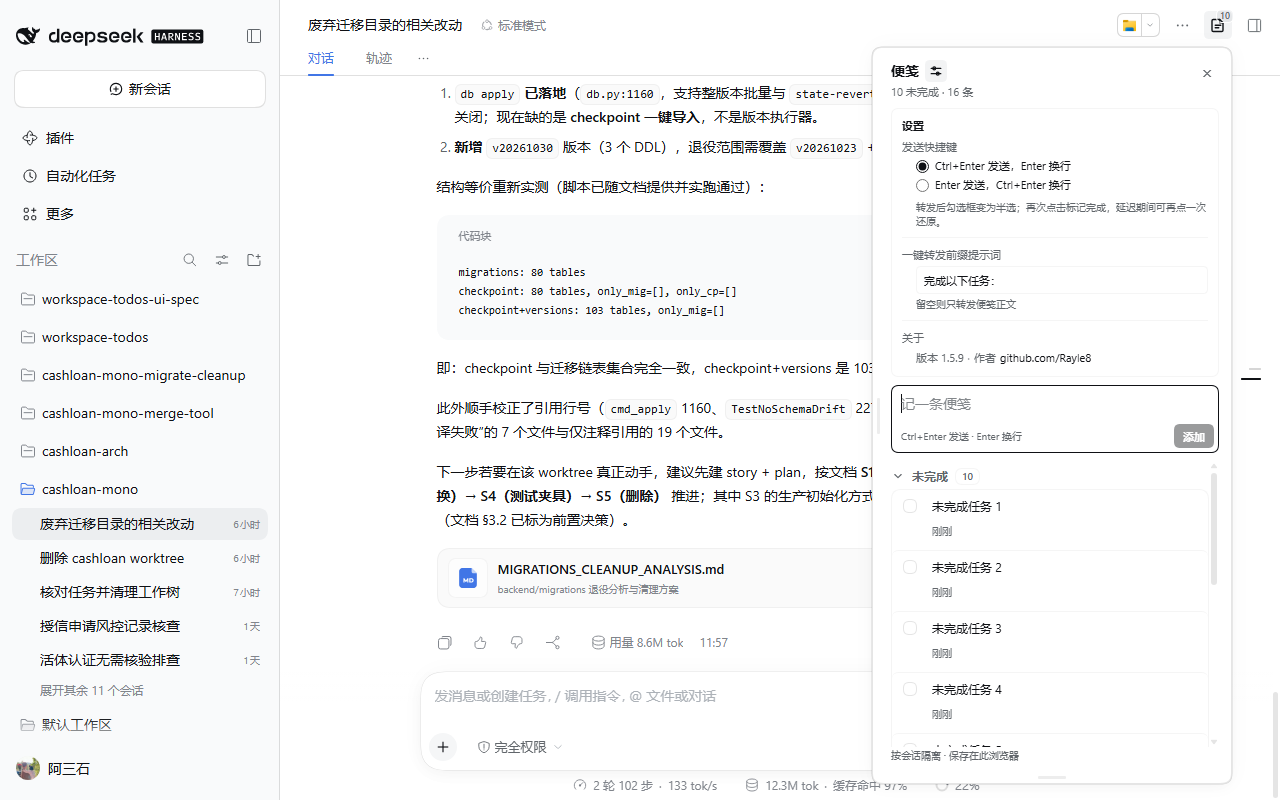
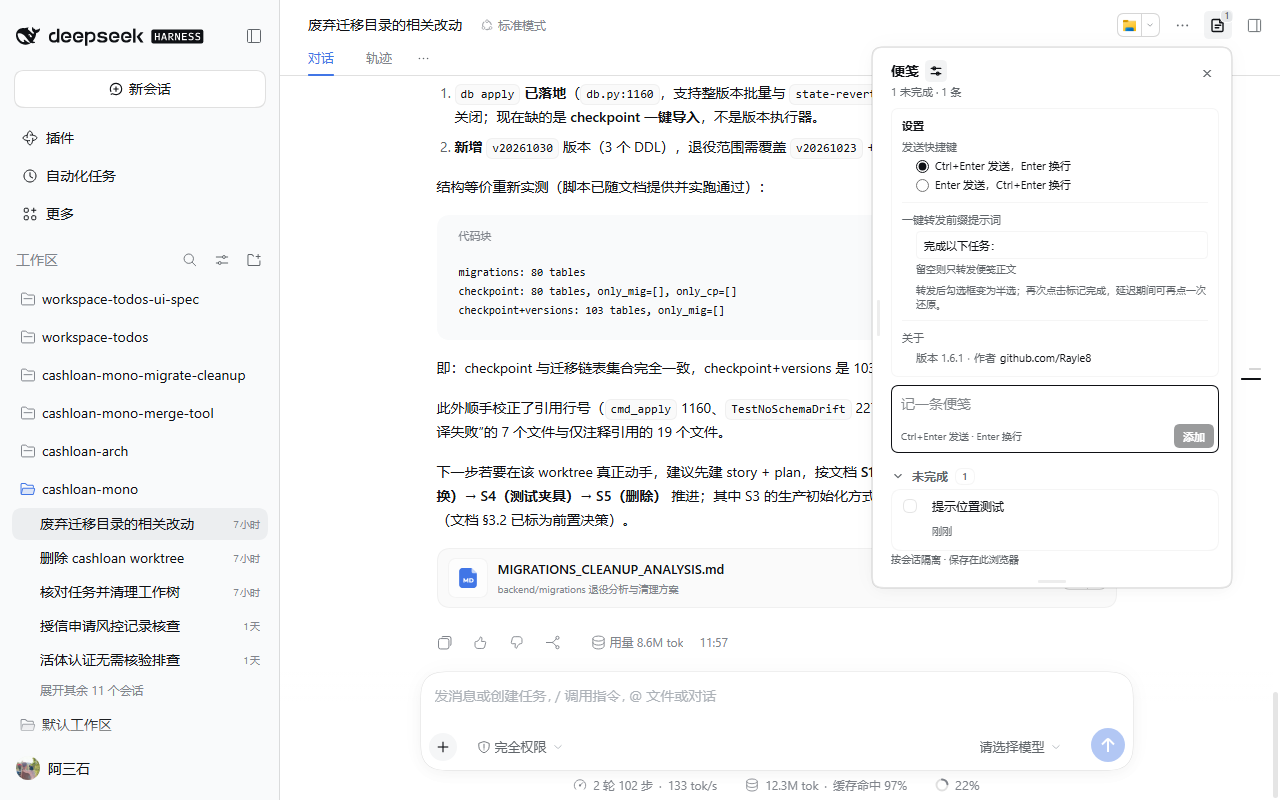
style: move the half-check hint under forward settings

diff --git a/client.js b/client.js
@@ -19,7 +19,7 @@ window.__ModuleLoader__.load({
     /** Fixed lead-in used when forwarding a note to the conversation composer. */
     const FORWARD_PREFIX = '完成以下任务：'
     /** Shown in the in-panel settings; keep in sync with package.json. */
-    const PLUGIN_VERSION = '1.6.0'
+    const PLUGIN_VERSION = '1.6.1'
     const PLUGIN_AUTHOR_URL = 'https://github.com/Rayle8'
     const PLUGIN_AUTHOR_LABEL = 'github.com/Rayle8'
     /** Enter-to-send preference; persisted across panel openings. */
@@ -2531,7 +2531,6 @@ window.__ModuleLoader__.load({
                       h('span', null, say('settings.shortcutEnter')),
                     ),
                   ),
-                  h('p', { className: 'dsh-wt-settingHint dsh-wt-settingHintNote' }, say('settings.halfCheck')),
                 ),
               ),
               h(
@@ -2550,6 +2549,7 @@ window.__ModuleLoader__.load({
                     onChange: event => changeForwardPrefix(event.target.value),
                   }),
                   h('p', { className: 'dsh-wt-settingHint' }, say('settings.forwardPrefixHint')),
+                  h('p', { className: 'dsh-wt-settingHint dsh-wt-settingHintNote' }, say('settings.halfCheck')),
                 ),
               ),
               h(

diff --git a/README.en.md b/README.en.md
@@ -21,7 +21,7 @@ Clicking it opens a fixed panel on the right. The sidebar title badge and compos
 - Data is keyed by **session ID**; different sessions in one workspace stay independent.
 - A 28px square top-right icon button shows the open count as a low-contrast gray corner badge; its tooltip reads “Session notes N”.
 - Clicking it opens a fixed right-side panel; switching sessions closes the old panel and updates the entry.
-- The settings button beside the notes title expands a settings area for the send shortcut and one-click forward prefix, with separated groups, a half-check explanation, and the version/GitHub author link on one line at the bottom; settings persist automatically.
+- The settings button beside the notes title expands a settings area for the send shortcut and one-click forward prefix, with the half-check explanation under the forward setting and the version/GitHub author link on one line at the bottom; settings persist automatically.
 - The panel's top-right corner aligns with the header entry and shifts left of the DSH right sidebar when that sidebar is open.
 - Clicking the entry opens the right-side panel for add, complete, copy, edit (double-click or pencil), delete, clear completed, and expand completed.
 - Drag the handle on the panel's left edge to resize its width; double-click the handle to reset it, and the width persists in the browser.

diff --git a/README.md b/README.md
@@ -21,7 +21,7 @@
 - 数据按**会话 ID** 隔离；同一个工作区的不同会话也各自独立。
 - 顶部右侧保持 `28px` 正方形图标按钮，用低对比灰色角标显示未完成数；悬浮提示为「会话便笺 N」。
 - 点击按钮在窗口右侧打开固定面板；切换会话时自动收起旧面板并更新入口。
-- 便笺标题右侧的设置按钮展开设置区：可切换发送快捷键、配置一键转发前缀，底部一行显示版本与 GitHub 作者链接；设置项分组分隔，并说明半选完成规则；设置自动保存。
+- 便笺标题右侧的设置按钮展开设置区：可切换发送快捷键、配置一键转发前缀，半选完成说明放在转发设置下；底部一行显示版本与 GitHub 作者链接，设置自动保存。
 - 浮窗右上角对齐顶部入口按钮；DSH 右侧栏打开时自动左移，避免被右侧栏遮挡。
 - 点击入口打开右侧面板：添加、打勾完成、复制、双击或铅笔编辑、删除、清除已完成、展开已完成。
 - 拖动面板左边缘把手可调整宽度，双击把手复位；宽度会保存在浏览器中。

diff --git a/CHANGELOG.md b/CHANGELOG.md
@@ -1,5 +1,9 @@
 # Changelog
 
+## 1.6.1
+
+- Move the half-check completion explanation under the one-click forward settings.
+
 ## 1.6.0
 
 - Honor the configured send shortcut in note edit mode and show a right-aligned edit hint.
